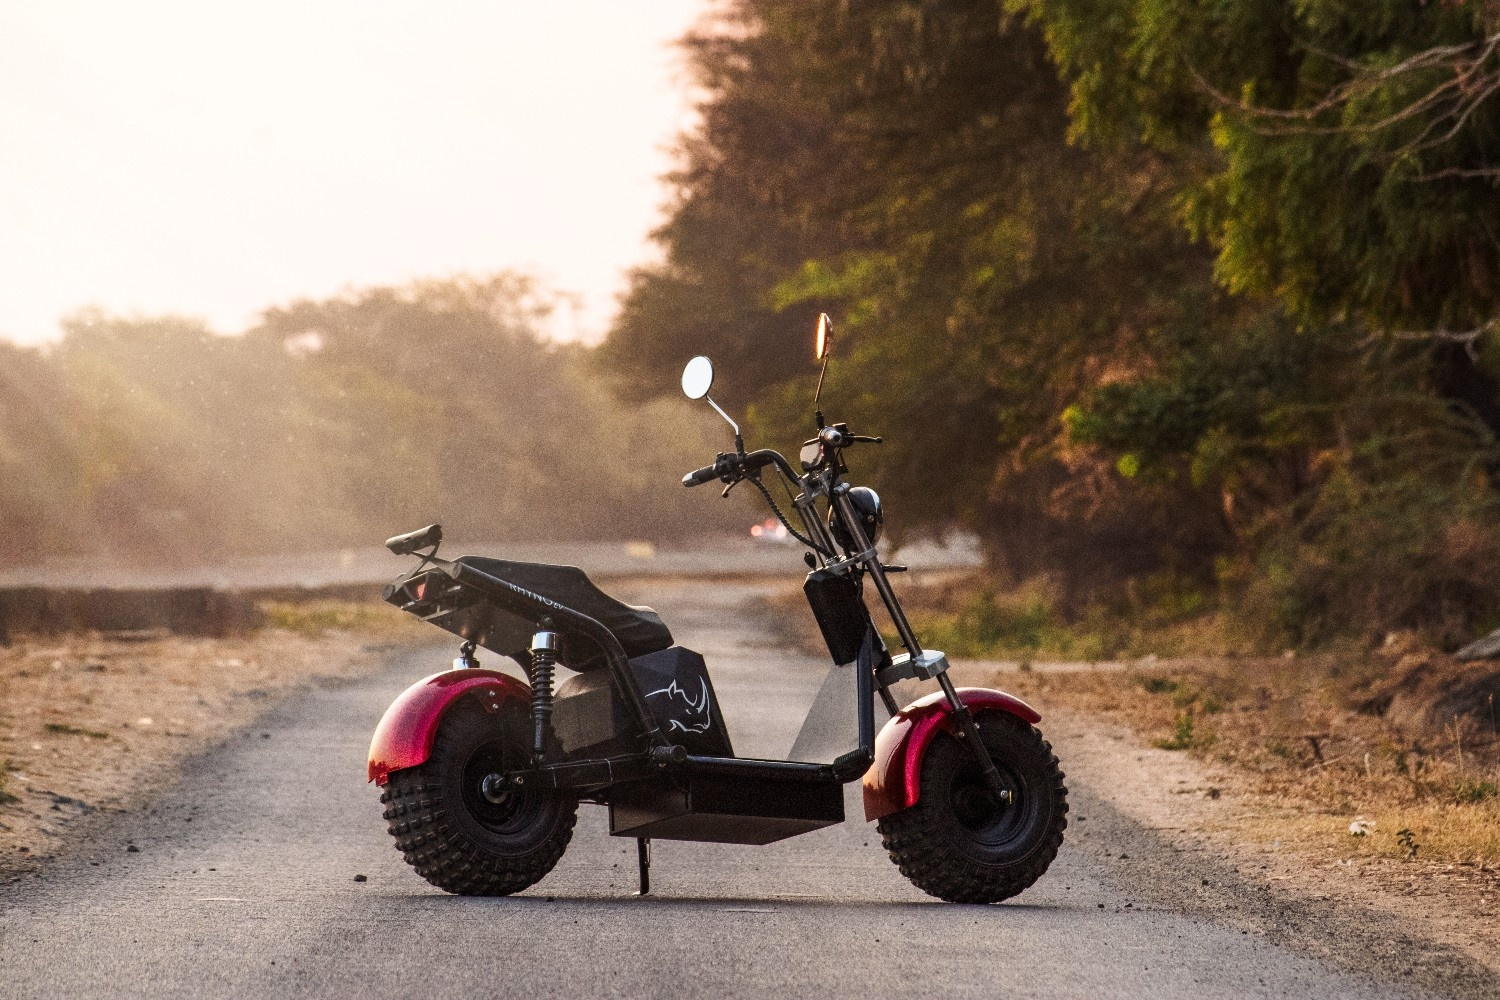
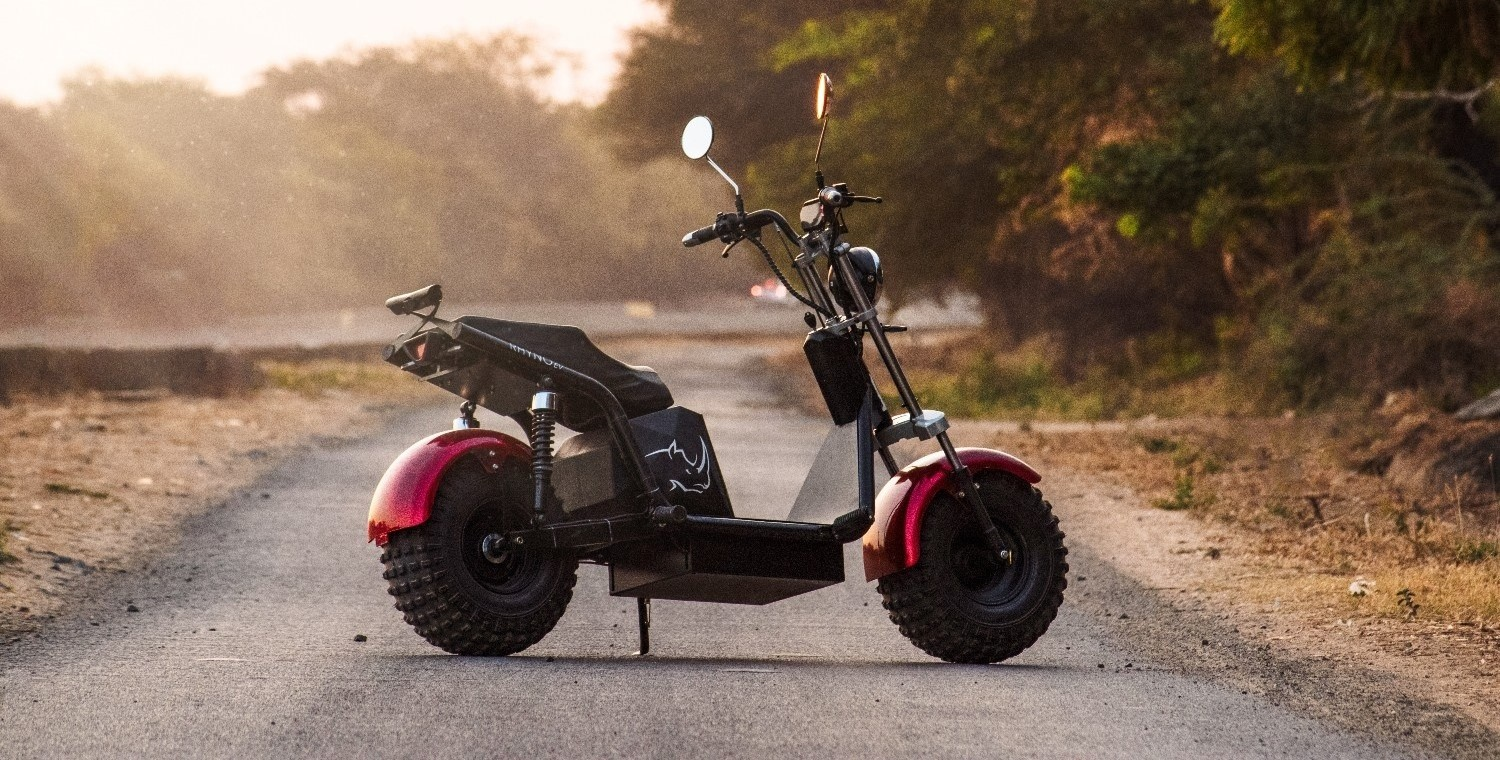
home,slider,about section  updated

diff --git a/src/components/Aboutus/Aboutus.jsx b/src/components/Aboutus/Aboutus.jsx
@@ -14,13 +14,15 @@ const Aboutus = () => {
   };
 
   return (
-    <div className="flex flex-col lg:flex-row items-start lg:items-center justify-center lg:justify-between p-8 lg:p-16 space-y-8 lg:space-y-0 bg-white text-black">
-      <div className="lg:w-7/12 lg:pl-10 space-y-4 md:pl-0">
-        <h1 className="text-4xl font-bold tracking-wide">Our Service Commitment</h1>
-        <p className="text-lg leading-relaxed text-justify">
-        Rhyno is built different. We have made it super easy to repair and maintain. Our commitment extends beyond engineering reliable vehicles. With Rhyno, you get one one-week service commitment that ensures a peaceful ownership experience. We care about your time. Our people know how to fix your Rhyno quickly. Our dedicated technical team stands ready to assist, ensuring a hassle-free experience for every dealer and fleet partner.
+    <div className="flex flex-col lg:flex-row items-start lg:items-center justify-center lg:justify-between p-6 md:p-8 lg:p-16 space-y-8 lg:space-y-0 bg-white text-black">
+      {/* Text Content Section */}
+      <div className="w-full lg:w-7/12 space-y-4 md:pl-0">
+        <h1 className="text-2xl md:text-3xl lg:text-4xl font-bold tracking-wide">Our Service Commitment</h1>
+        <p className="text-base md:text-lg leading-relaxed text-justify">
+          Rhyno is built different. We have made it super easy to repair and maintain. Our commitment extends beyond engineering reliable vehicles. With Rhyno, you get one one-week service commitment that ensures a peaceful ownership experience. We care about your time. Our people know how to fix your Rhyno quickly. Our dedicated technical team stands ready to assist, ensuring a hassle-free experience for every dealer and fleet partner.
         </p>
 
+        {/* Accordion Section */}
         <div className="space-y-4">
           <Accordion
             title="What is one-week service commitment?"
@@ -39,31 +41,38 @@ const Aboutus = () => {
           <Accordion
             title="Can a local mechanic repair my Rhyno?"
             content="Yes. Even you can! We’ve got you covered with a comprehensive service and repair manual. Additionally, our YouTube channel has all the tutorial videos about service and repairs."
-            index={3}
+            index={2}
             activeIndex={activeIndex}
             toggleAccordion={toggleAccordion}
           />
         </div>
 
-        {/* Buttons Row */}
-        <div className="flex justify-between space-x-4 mt-8">
-        <Link to="/Contact-us" onClick={() => { handleClick(); }}><button className="btnabout">
-            Book a Test Ride
-          </button></Link>
-          <Link to="/Contact-us" onClick={() => { handleClick(); }}><button className="btnabout">
-            Rent For a Week
-          </button></Link>
-          <Link to="/Contact-us" onClick={() => { handleClick(); }}><button className="btnabout">
-            Apply For Dealership
-          </button></Link>
+        {/* Buttons Section */}
+        <div className="flex flex-col lg:flex-row lg:space-x-4 space-y-4 lg:space-y-0 mt-8">
+          <Link to="/Contact-us" onClick={handleClick}>
+            <button className="btnabout w-full lg:w-auto">
+              Book a Test Ride
+            </button>
+          </Link>
+          <Link to="/Contact-us" onClick={handleClick}>
+            <button className="btnabout w-full lg:w-auto">
+              Rent For a Week
+            </button>
+          </Link>
+          <Link to="/Contact-us" onClick={handleClick}>
+            <button className="btnabout w-full lg:w-auto">
+              Apply For Dealership
+            </button>
+          </Link>
         </div>
       </div>
 
-      <div className="lg:w-4/12 flex justify-center md:w-full">
+      {/* Image Section */}
+      <div className="w-full lg:w-4/12 flex justify-center">
         <img
           src={img1}
           alt="Electric Scooter"
-          className="lg:max-w-md h-auto shadow-lg"
+          className="w-full lg:max-w-md h-auto shadow-lg"
         />
       </div>
     </div>
@@ -86,9 +95,8 @@ const Accordion = ({ title, content, index, activeIndex, toggleAccordion }) => {
   return (
     <div className="border-class">
       <button
-        className="flex justify-between items-center w-full py-3 text-lg font-semibold text-left focus:outline-none"
+        className="flex justify-between items-center w-full py-3 text-base md:text-lg font-semibold text-left focus:outline-none"
         onClick={() => toggleAccordion(index)}
-        style={{ outline: 'none' }} // Inline style to ensure no outline
       >
         <span>{title}</span>
         <span>{isActive ? '-' : '+'}</span>
@@ -96,7 +104,7 @@ const Accordion = ({ title, content, index, activeIndex, toggleAccordion }) => {
       <div
         ref={contentRef}
         style={{ height }}
-        className="overflow-hidden transition-height duration-300 ease-in-out"
+        className="overflow-hidden transition-all duration-300 ease-in-out"
       >
         <div className="pb-3 text-black">
           {content}

diff --git a/src/components/home/HomeNew.jsx b/src/components/home/HomeNew.jsx
@@ -1,6 +1,6 @@
 import React, { useState, useEffect } from "react";
-import IMG1 from "../../assets/home.png";
-import IMG2 from "../../assets/home2.jpg"; // Add your other images here
+import IMG1 from "../../assets/home1.jpg";
+import IMG2 from "../../assets/home2.jpg";
 import IMG3 from "../../assets/home3.jpg";
 import IMG4 from "../../assets/home2.jpg";
 
@@ -8,13 +8,13 @@ function HomeNew() {
   const images = [IMG1, IMG2, IMG3, IMG4]; // Array of images
   const [currentIndex, setCurrentIndex] = useState(0);
 
-  // Automatically change the image every 10 seconds
+  // Automatically change the image every 3 seconds
   useEffect(() => {
     const interval = setInterval(() => {
       setCurrentIndex((prevIndex) =>
         prevIndex === images.length - 1 ? 0 : prevIndex + 1
       );
-    }, 3000); // 10 seconds
+    }, 3000); // 3 seconds
 
     return () => clearInterval(interval); // Cleanup on unmount
   }, [images.length]);
@@ -32,32 +32,35 @@ function HomeNew() {
   };
 
   return (
-    <div className="relative flex overflow-hidden flex-col items-center px-16 pt-20 mt-20 pb-10 min-h-[90vh] max-md:px-5">
+    <div className="relative flex overflow-hidden items-center justify-center h-[95vh] w-full mt-10">
+      {/* Image */}
       <img
         loading="lazy"
         src={images[currentIndex]}
-        className="object-cover absolute inset-0 w-full h-full"
+        className="w-full h-full absolute inset-0"
         alt="slideshow"
+        style={{ objectFit: "fill", maxHeight: "95vh", objectPosition: "top" }}
       />
-      <div className="flex relative justify-between mt-96 w-full max-w-[1219px] max-md:flex-wrap max-md:mt-72 max-md:max-w-full">
-        {/* Previous button fixed at bottom-left of the screen */}
-        <div className="left-5 mt-24">
-          <button
-            onClick={handlePrevClick}
-            className="text-3xl px-4 py-2 outline-none border-none bg-slate-600 hover:bg-slate-300 focus:outline-none focus:border-none"
-          >
-            <i className="fa-solid fa-angle-left"></i>
-          </button>
-        </div>
-        {/* Next button fixed at bottom-right of the screen */}
-        <div className="right-5 mt-24">
-          <button
-            onClick={handleNextClick}
-            className="text-3xl px-4 py-2 outline-none border-none bg-slate-600 hover:bg-slate-300 focus:outline-none focus:border-none"
-          >
-            <i className="fa-solid fa-angle-right"></i>
-          </button>
-        </div>
+
+      {/* Navigation Arrows */}
+      <div className="absolute inset-0 flex justify-between items-center px-8">
+        {/* Previous button - Vertically centered on the left */}
+        <button
+          onClick={handlePrevClick}
+          className="text-3xl px-4 py-2 outline-none border-none bg-slate-600 hover:bg-slate-300 focus:outline-none focus:border-none"
+          style={{ backgroundColor: "rgba(0, 0, 0, 0.4)", borderRadius: "50%" }}
+        >
+          <i className="fa-solid fa-angle-left text-white"></i>
+        </button>
+
+        {/* Next button - Vertically centered on the right */}
+        <button
+          onClick={handleNextClick}
+          className="text-3xl px-4 py-2 outline-none border-none bg-slate-600 hover:bg-slate-300 focus:outline-none focus:border-none"
+          style={{ backgroundColor: "rgba(0, 0, 0, 0.4)", borderRadius: "50%" }}
+        >
+          <i className="fa-solid fa-angle-right text-white"></i>
+        </button>
       </div>
     </div>
   );

diff --git a/src/components/OurProducts/OurProducts.jsx b/src/components/OurProducts/OurProducts.jsx
@@ -120,18 +120,18 @@ const OurProducts = () => {
     const hasRun = useRef(false); // Track if the effect has already run
 
     useEffect(() => {
-        const handleEnter = () => {
-            showSlider('prev');
-            setTimeout(() => {
-                showSlider('prev');
-                setTimeout(() => {
-                    showSlider('prev');
-                    setTimeout(() => {
-                        showSlider('next');
-                    }, 2000);
-                }, 2000);
-            }, 2000);
-        };
+        // const handleEnter = () => {
+        //     showSlider('prev');
+        //     setTimeout(() => {
+        //         showSlider('prev');
+        //         setTimeout(() => {
+        //             showSlider('prev');
+        //             setTimeout(() => {
+        //                 showSlider('next');
+        //             }, 2000);
+        //         }, 2000);
+        //     }, 2000);
+        // };
 
         // Intersection Observer callback
         const handleIntersection = (entries) => {
